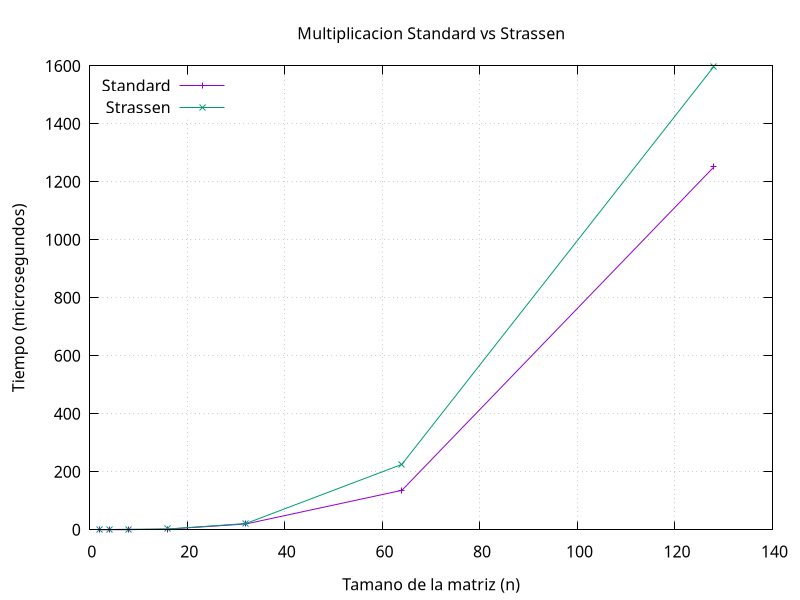
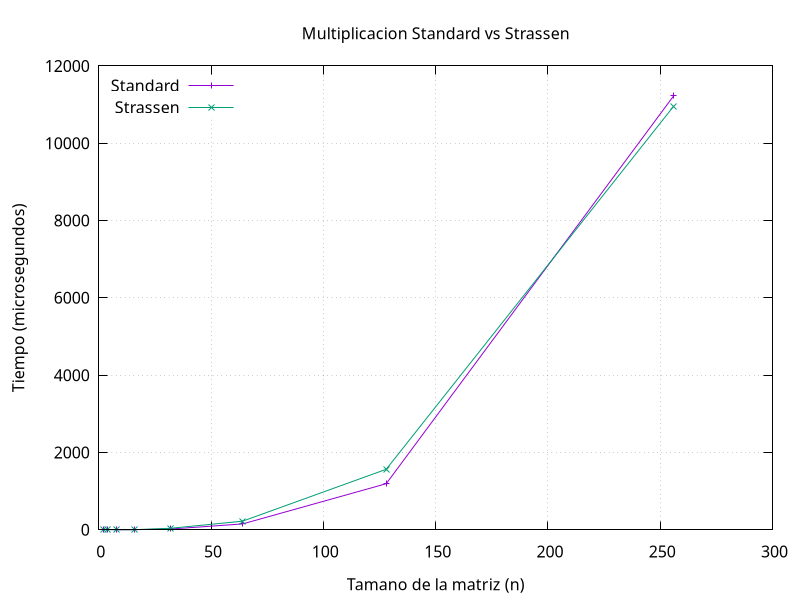
Con tamanos a 256 al fin se alcanza a ver una mejora con el uso de strassen, sin embargo no es lo esperado teoricamente ya que se dice que para 32 recien adopta la mejoria

diff --git a/main.cpp b/main.cpp
@@ -147,7 +147,7 @@ void printMatrix(std::vector<std::vector<int>> matrixRandom){
 }
 
 int main(){
-    int n = 128;
+    int n = 256;
     for(int i = 2; i <= n; i = i * 2){
         std::vector<std::vector<int>> matrixA(i, std::vector<int>(i, 3));
         std::vector<std::vector<int>> matrixB(i, std::vector<int>(i, 3));
